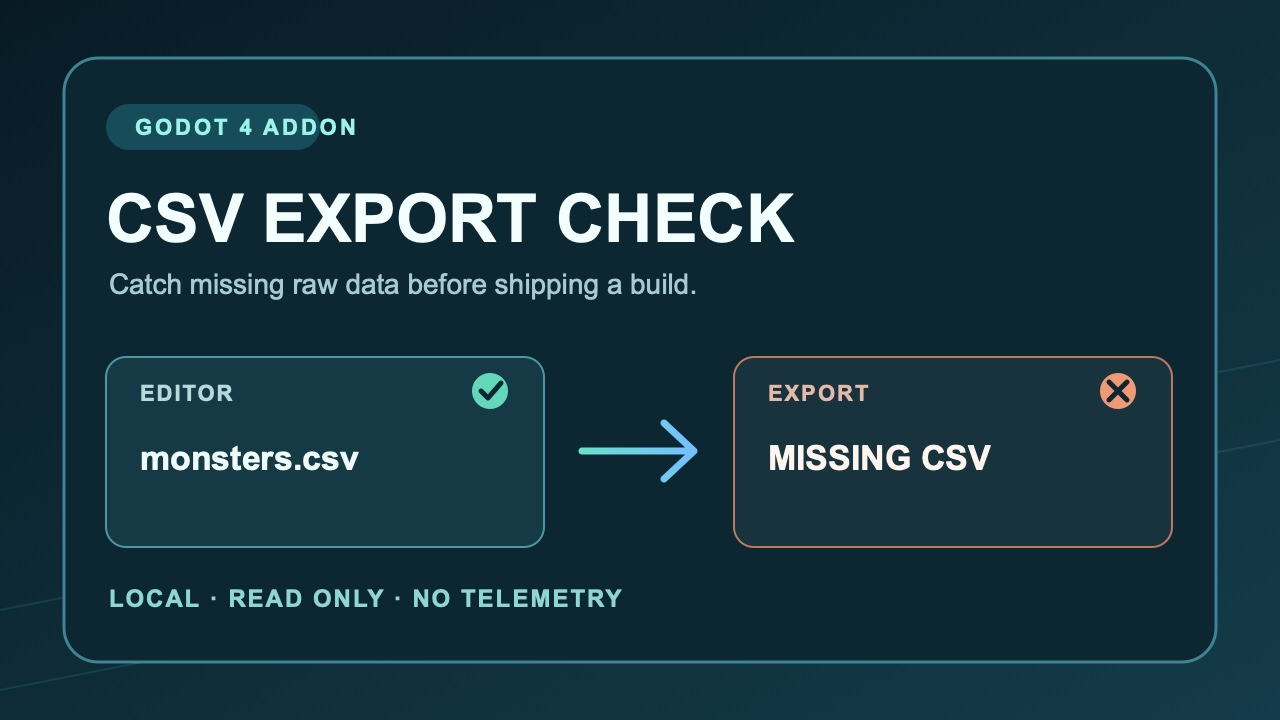
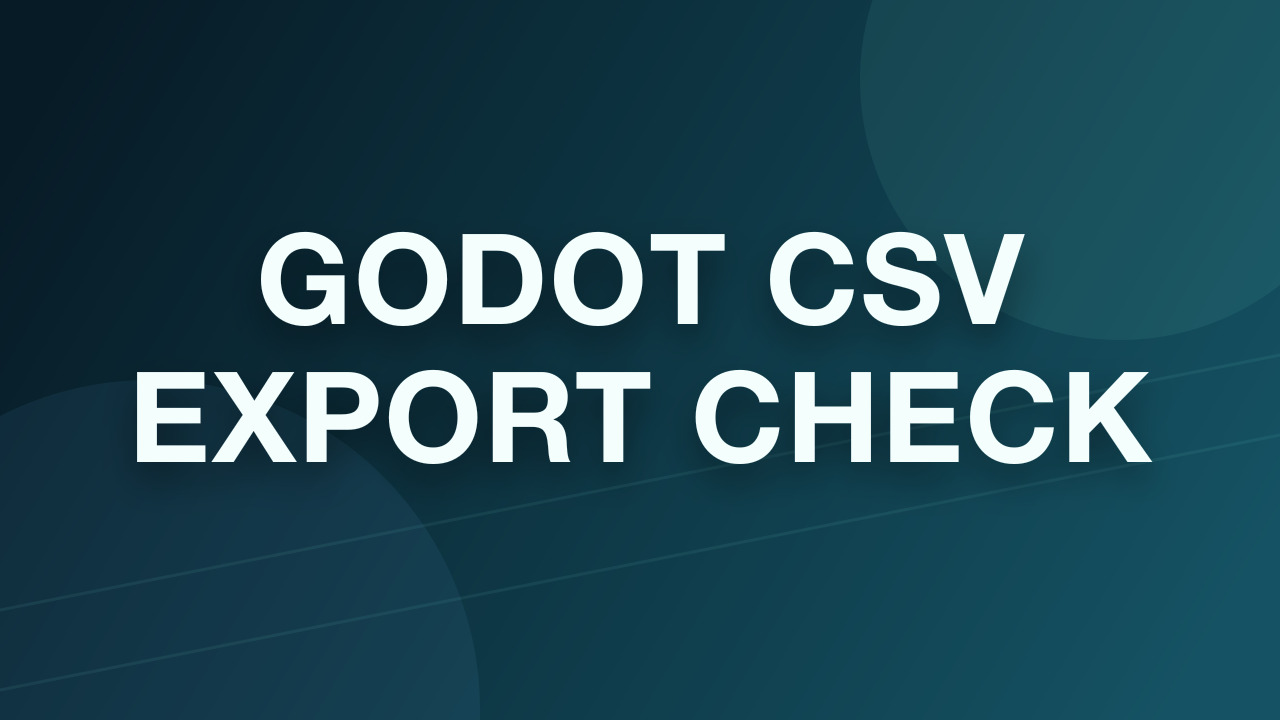
Simplify Asset Store thumbnail

diff --git a/docs/ASSET_STORE_SUBMISSION.md b/docs/ASSET_STORE_SUBMISSION.md
@@ -30,7 +30,7 @@ Independent community tool; not affiliated with or endorsed by the Godot Foundat
 
 ## AI usage disclosure
 
-Code and listing text used AI assistance. Verified with a Python smoke test, headless GDScript analyzer and dock tests, deterministic archive validation, and Godot editor startup on supported engine versions.
+Code, listing text, and the original programmatic SVG thumbnail used AI assistance. The thumbnail was not generated by an image model; it was rendered deterministically from the repository SVG. The plugin was verified with a Python smoke test, headless GDScript analyzer and dock tests, deterministic archive validation, and Godot editor startup on supported engine versions.
 
 ## Review checklist
 
@@ -39,6 +39,7 @@ Code and listing text used AI assistance. Verified with a Python smoke test, hea
 - [x] Archive contains only `addons/csv_export_check/`.
 - [x] Source repository has a root MIT license and `.gitignore`.
 - [x] Store thumbnail is 1280×720 and below the 600 KB limit.
+- [x] Thumbnail revision keeps only the large asset name so it remains readable at small sizes.
 - [x] English name and description use full sentences.
 - [x] AI assistance is disclosed.
 - [x] No pop-up or in-editor advertisement for the paid version.
